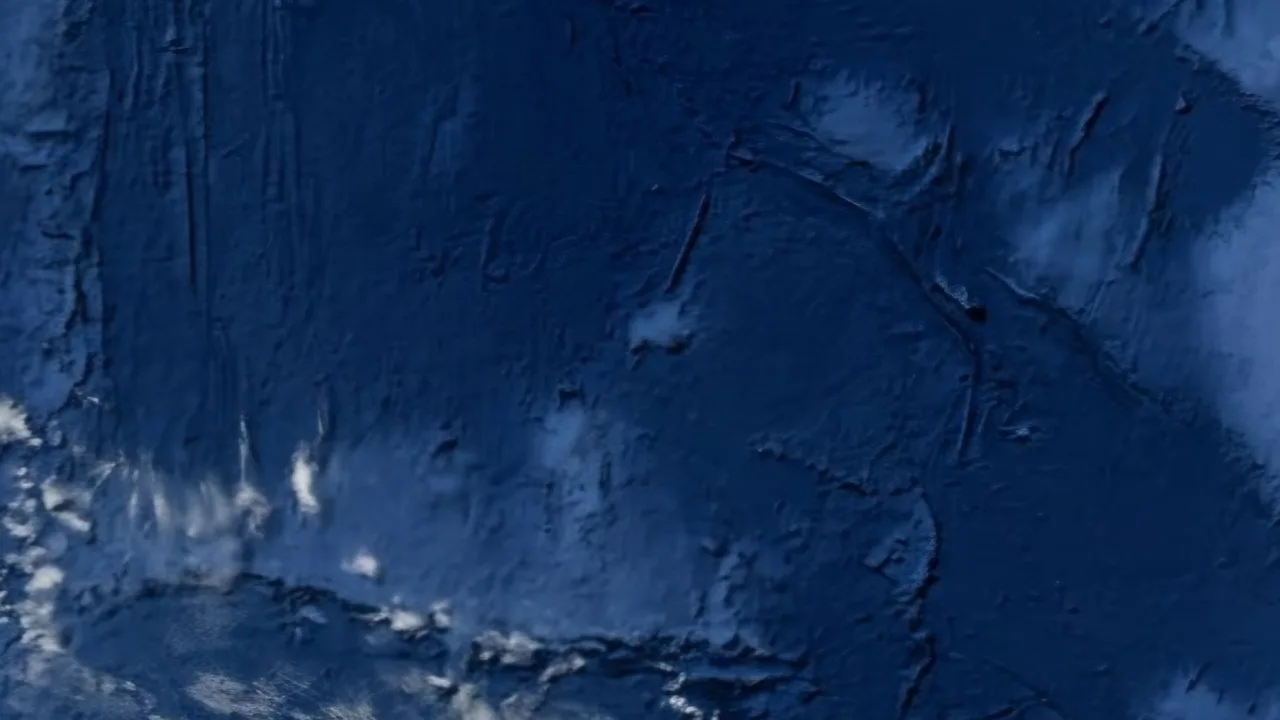
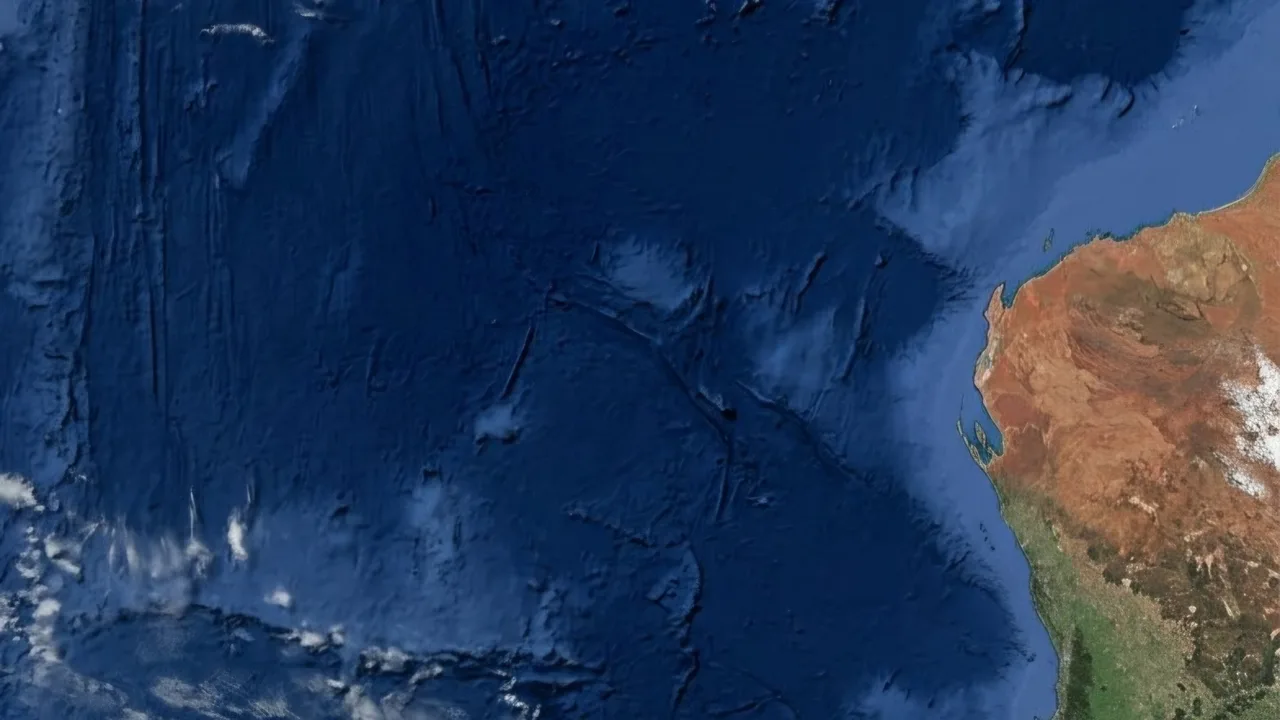
Hangar Escola: MH370 com nova foto no capítulo 8 e foto do radar no capítulo 6
Claude-Session: https://claude.ai/code/session_01PxKViBYL6qRqF4hkoHqSJb

diff --git a/aviao/desastres.js b/aviao/desastres.js
@@ -410,6 +410,7 @@ const CENAS = {
     <g class="mh-fade"><g transform="translate(188 92) rotate(200) scale(.32)">${AVIAO_A330}</g></g>
     <rect x="96" y="10" width="128" height="17" rx="4" class="pt-chip"/><text x="160" y="22" class="px-gtxt" style="fill:#ff8a7a">08:19 · O ÚLTIMO SINAL</text>
     <rect x="70" y="160" width="180" height="17" rx="4" class="pt-chip"/><text x="160" y="172" class="px-gtxt">7º ARCO · SUL DO OCEANO ÍNDICO</text>
+    <text x="312" y="100" text-anchor="end" class="mh-ausl">AUSTRÁLIA</text>
     <text x="314" y="154" text-anchor="end" class="mn-ilus">imagem ilustrativa</text>`,
   buscaMar: () => `<rect width="320" height="180" class="px-dusk"/>${water(120)}
     <g transform="translate(90 112)"><path d="M-40 0 H40 L30 14 H-30Z" class="px-ship"/><rect x="-14" y="-16" width="26" height="16" class="px-ship"/></g>
@@ -572,7 +573,7 @@ const ACIDENTES = [
     p: ["Menos de dois minutos depois, à 01:21:13 seg, o sinal do transponder do MH370 desapareceu das telas de controle, logo depois de o avião passar pelo ponto IGARI. A etiqueta com o nome do voo simplesmente sumiu do radar.", "Ninguém deu o alarme na hora. Em Ho Chi Minh, o controle esperava o contato do avião, que não veio. Só à 01:38 os vietnamitas ligaram para Kuala Lumpur perguntando pelo MH370.", "Seguiram-se horas de confusão. Os controladores dos dois países trocavam ligações, a empresa chegou a informar que o avião parecia estar sobre o Camboja, e um avião da própria Malaysia Airlines que passava pela região tentou chamar o MH370 pelo rádio. O piloto disse ter ouvido apenas chiado e algo parecido com um murmúrio.", "O centro de busca e salvamento só foi acionado às 05:30, mais de quatro horas depois do sumiço. O relatório oficial apontaria, anos depois, falhas dos controles de tráfego aéreo nessa noite."] },
   { t: "A volta no escuro", parte: 1, hora: "01:22", lugar: "Sobre a península da Malásia", sabia: "O radar militar é um radar primário: ele enxerga o eco de qualquer objeto grande no céu, com ou sem transponder, mas não sabe quem é.", cena: CENAS.curva,
     p: ["Enquanto os controles procuravam o avião, os radares militares da Malásia registravam um eco sem identificação. Logo depois do ponto IGARI, o MH370 fez uma curva fechada para a esquerda e deu meia-volta, para o sudoeste.", "O avião atravessou de volta a península da Malásia, passou perto de Kota Bharu e seguiu em direção à ilha de Penang, na costa oeste. Por volta da 01:52, passou ao sul de Penang, a cidade natal do comandante.", "Os militares viram o eco, mas não reagiram. Consideraram que era um avião civil, sem ameaça, e ninguém mandou caças para olhar de perto.", "A investigação concluiria que a curva muito provavelmente foi feita com o avião sendo pilotado à mão, e não pelo piloto automático. Quem pilotava, e por quê, continua sem resposta."] },
-  { t: "O último eco", parte: 1, hora: "02:22", lugar: "Mar de Andamão", sabia: "Depois de Penang, o avião seguiu pelo Estreito de Malaca, uma das rotas de navios mais movimentadas do mundo, entre a Malásia e a ilha de Sumatra.", cena: CENAS.ultimoEco,
+  { t: "O último eco", foto: { src: "assets/mh370-ultimo-eco.webp", legenda: "Recriação de uma tela de radar com o MH370 (imagem ilustrativa). No radar militar, o avião era só um eco sem nome: sem o transponder, não havia etiqueta com altitude e velocidade.", tag: "02:22 · o último eco no radar militar" }, parte: 1, hora: "02:22", lugar: "Mar de Andamão", sabia: "Depois de Penang, o avião seguiu pelo Estreito de Malaca, uma das rotas de navios mais movimentadas do mundo, entre a Malásia e a ilha de Sumatra.", cena: CENAS.ultimoEco,
     p: ["Depois de Penang, o eco seguiu para o noroeste, sobre o Estreito de Malaca, em direção ao Mar de Andamão. O avião continuava em silêncio: sem rádio, sem transponder, sem mensagens.", "Às 02:22, o radar militar registrou o último eco do MH370, cerca de 200 milhas náuticas a noroeste de Penang. Depois disso, o avião saiu do alcance de todos os radares.", "Ninguém sabe o que acontecia lá dentro. Não se sabe se os passageiros perceberam a mudança de rumo, se estavam dormindo, se estavam conscientes. Nenhum telefone, nenhuma mensagem, nenhum pedido de socorro saiu do avião.", "Para o mundo, o MH370 tinha desaparecido. Mas ainda havia alguém escutando."] },
   { t: "O satélite que continuou ouvindo", parte: 2, hora: "02:25", lugar: "Algum lugar sobre o Oceano Índico", sabia: "Os dados do MH370 foram analisados pela empresa britânica Inmarsat. Foi a primeira vez que esse tipo de sinal foi usado para tentar descobrir a rota de um avião.", cena: CENAS.satelite,
     p: ["Às 02:25, três minutos depois do último eco no radar, o terminal de comunicação por satélite do avião voltou a se conectar sozinho. Ele tinha sido desligado e religado, por um motivo que ninguém sabe explicar.", "O avião estava ligado a um satélite da empresa Inmarsat, parado sobre o Oceano Índico. A cada hora, mais ou menos, a estação em terra mandava um sinal perguntando se o avião ainda estava lá, e o terminal respondia sozinho. Era só um “aperto de mão”, sem posição, sem mensagem.", "Às 02:39 e às 07:13, a Malaysia Airlines ligou para o avião por esse satélite. O telefone tocou na cabine e ninguém atendeu.", "Mas os apertos de mão guardavam uma pista. Pelo tempo que o sinal levava para ir e voltar, dava para saber a que distância o avião estava do satélite. Cada resposta virava um arco sobre o mapa: o avião estava em algum ponto daquela linha."] },

diff --git a/aviao/sw.js b/aviao/sw.js
@@ -1,7 +1,7 @@
 /* Service worker: o app abre e funciona offline. */
-const CACHE = 'hangar-escola-v142';
+const CACHE = 'hangar-escola-v143';
 // Os arquivos levam "?v=" no index.html: ao mudar a versão, o celular nunca mistura CSS/JS antigo com HTML novo.
-const FILES = ['./', 'index.html', 'style.css?v=142', 'avioes.js?v=142', 'catalogo747.js?v=142', 'cockpit747.js?v=142', 'motor3d.js?v=142', 'motor747.js?v=142', 'meteo.js?v=142', 'radio.js?v=142', 'historia.js?v=142', 'desastres.js?v=142', 'app.js?v=142', 'icon.svg', 'apple-touch-icon.png', 'icon-192.png', 'icon-512.png', 'manifest.webmanifest', 'assets/747-lateral.jpg', 'assets/747-frontal.jpg', 'assets/747-motor.jpg', 'assets/747-superior.png', 'assets/747-lado.webp', 'assets/747-lado-prof.webp', 'assets/747-tras.webp', 'assets/747-tras-trem.webp', 'assets/bank-angle.mp3', 'assets/v1.mp3', 'assets/nuvem-cb.webp', 'assets/nuvem-cu.webp', 'assets/nuvem-ci.webp', 'assets/nuvem-cc.webp', 'assets/nuvem-cs.webp', 'assets/nuvem-ac.webp', 'assets/nuvem-as.webp', 'assets/nuvem-ns.webp', 'assets/nuvem-sc.webp', 'assets/nuvem-st.webp', 'assets/nuvens-atlas.webp', 'assets/historia-1881.webp', 'assets/historia-vevey.webp', 'assets/historia-serraria.webp', 'assets/historia-dominguez.webp', 'assets/historia-curtiss.webp', 'assets/jal123-mapa.webp', 'assets/jal123-haneda.webp', 'assets/jal123-decolagem.webp', 'assets/jal123-cauda.webp', 'assets/jal123-cabine.webp', 'assets/jal123-hidraulico.webp', 'assets/jal123-manetes.webp', 'assets/jal123-montanhas.webp', 'assets/jal123-bilhete.webp', 'assets/jal123-c130.webp', 'assets/jal123-deriva.webp', 'assets/af447-mapa.webp', 'assets/af447-galeao.webp', 'assets/af447-decolagem.webp', 'assets/af447-lua.webp', 'assets/af447-tempestade.webp', 'assets/af447-painel.webp', 'assets/cauda-af.webp', 'assets/cauda-jal.webp', 'assets/cauda-mh.webp', 'assets/af447-pitot.webp', 'assets/af447-pitot-gelo.webp', 'assets/af447-manches.webp', 'assets/af447-estol.webp', 'assets/af447-cabine.webp', 'assets/af447-queda.webp', 'assets/af447-deriva.webp', 'assets/af447-painel-voos.webp', 'assets/af447-fundo.webp', 'assets/af447-relatorio.webp', 'assets/af447-sondas.webp', 'assets/af447-tribunal.webp', 'assets/af447-estol-diagrama.webp', 'assets/mh370-mapa.webp', 'assets/mh370-klia.webp', 'assets/mh370-decolagem.webp', 'assets/mh370-cinto.webp', 'assets/mh370-radar.webp', 'assets/mh370-peninsula.webp', 'assets/mh370-oceano.webp'];
+const FILES = ['./', 'index.html', 'style.css?v=143', 'avioes.js?v=143', 'catalogo747.js?v=143', 'cockpit747.js?v=143', 'motor3d.js?v=143', 'motor747.js?v=143', 'meteo.js?v=143', 'radio.js?v=143', 'historia.js?v=143', 'desastres.js?v=143', 'app.js?v=143', 'icon.svg', 'apple-touch-icon.png', 'icon-192.png', 'icon-512.png', 'manifest.webmanifest', 'assets/747-lateral.jpg', 'assets/747-frontal.jpg', 'assets/747-motor.jpg', 'assets/747-superior.png', 'assets/747-lado.webp', 'assets/747-lado-prof.webp', 'assets/747-tras.webp', 'assets/747-tras-trem.webp', 'assets/bank-angle.mp3', 'assets/v1.mp3', 'assets/nuvem-cb.webp', 'assets/nuvem-cu.webp', 'assets/nuvem-ci.webp', 'assets/nuvem-cc.webp', 'assets/nuvem-cs.webp', 'assets/nuvem-ac.webp', 'assets/nuvem-as.webp', 'assets/nuvem-ns.webp', 'assets/nuvem-sc.webp', 'assets/nuvem-st.webp', 'assets/nuvens-atlas.webp', 'assets/historia-1881.webp', 'assets/historia-vevey.webp', 'assets/historia-serraria.webp', 'assets/historia-dominguez.webp', 'assets/historia-curtiss.webp', 'assets/jal123-mapa.webp', 'assets/jal123-haneda.webp', 'assets/jal123-decolagem.webp', 'assets/jal123-cauda.webp', 'assets/jal123-cabine.webp', 'assets/jal123-hidraulico.webp', 'assets/jal123-manetes.webp', 'assets/jal123-montanhas.webp', 'assets/jal123-bilhete.webp', 'assets/jal123-c130.webp', 'assets/jal123-deriva.webp', 'assets/af447-mapa.webp', 'assets/af447-galeao.webp', 'assets/af447-decolagem.webp', 'assets/af447-lua.webp', 'assets/af447-tempestade.webp', 'assets/af447-painel.webp', 'assets/cauda-af.webp', 'assets/cauda-jal.webp', 'assets/cauda-mh.webp', 'assets/af447-pitot.webp', 'assets/af447-pitot-gelo.webp', 'assets/af447-manches.webp', 'assets/af447-estol.webp', 'assets/af447-cabine.webp', 'assets/af447-queda.webp', 'assets/af447-deriva.webp', 'assets/af447-painel-voos.webp', 'assets/af447-fundo.webp', 'assets/af447-relatorio.webp', 'assets/af447-sondas.webp', 'assets/af447-tribunal.webp', 'assets/af447-estol-diagrama.webp', 'assets/mh370-mapa.webp', 'assets/mh370-klia.webp', 'assets/mh370-decolagem.webp', 'assets/mh370-cinto.webp', 'assets/mh370-radar.webp', 'assets/mh370-peninsula.webp', 'assets/mh370-oceano.webp', 'assets/mh370-ultimo-eco.webp'];
 
 self.addEventListener('install', (e) => {
   e.waitUntil(caches.open(CACHE).then((c) => c.addAll(FILES)).then(() => self.skipWaiting()));

diff --git a/aviao/index.html b/aviao/index.html
@@ -17,7 +17,7 @@
   <link rel="preconnect" href="https://fonts.googleapis.com">
   <link rel="preconnect" href="https://fonts.gstatic.com" crossorigin>
   <link href="https://fonts.googleapis.com/css2?family=Barlow+Condensed:wght@500;600;700&family=IBM+Plex+Mono:wght@400;500&family=IBM+Plex+Sans:wght@400;500;600&display=swap" rel="stylesheet">
-  <link rel="stylesheet" href="style.css?v=142">
+  <link rel="stylesheet" href="style.css?v=143">
 </head>
 <body>
   <!-- Intro: o avião decola pela pista iluminada e aparece o nome do app (toque para pular) -->
@@ -988,16 +988,16 @@
       </div>
     </section>
   </aside>
-  <script src="avioes.js?v=142"></script>
-  <script src="catalogo747.js?v=142"></script>
-  <script src="cockpit747.js?v=142"></script>
-  <script src="motor3d.js?v=142"></script>
-  <script src="motor747.js?v=142"></script>
-  <script src="meteo.js?v=142"></script>
-  <script src="radio.js?v=142"></script>
-  <script src="historia.js?v=142"></script>
-  <script src="desastres.js?v=142"></script>
-  <script src="app.js?v=142"></script>
+  <script src="avioes.js?v=143"></script>
+  <script src="catalogo747.js?v=143"></script>
+  <script src="cockpit747.js?v=143"></script>
+  <script src="motor3d.js?v=143"></script>
+  <script src="motor747.js?v=143"></script>
+  <script src="meteo.js?v=143"></script>
+  <script src="radio.js?v=143"></script>
+  <script src="historia.js?v=143"></script>
+  <script src="desastres.js?v=143"></script>
+  <script src="app.js?v=143"></script>
   <script>
     // No APK os arquivos já vêm dentro do app; o service worker é só para o site.
     const nativo = !!(window.Capacitor && window.Capacitor.isNativePlatform && window.Capacitor.isNativePlatform());

diff --git a/aviao/style.css b/aviao/style.css
@@ -1269,3 +1269,4 @@ body.drawer-lock { overflow: hidden; }
 .cv-t { font: 700 40px var(--mono); fill: #fff; paint-order: stroke; stroke: rgba(0,0,0,.7); stroke-width: 9px; stroke-linejoin: round; letter-spacing: .03em; }
 @keyframes cvDraw { 0% { stroke-dashoffset: 100; } 70%, 100% { stroke-dashoffset: 0; } }
 @media (prefers-reduced-motion: reduce) { .cv-path, .cv-last { animation: none !important; stroke-dashoffset: 0; } }
+.mh-ausl { font: 700 9px var(--mono); letter-spacing: .14em; fill: #fff; paint-order: stroke; stroke: rgba(0,0,0,.6); stroke-width: 2.5px; }
